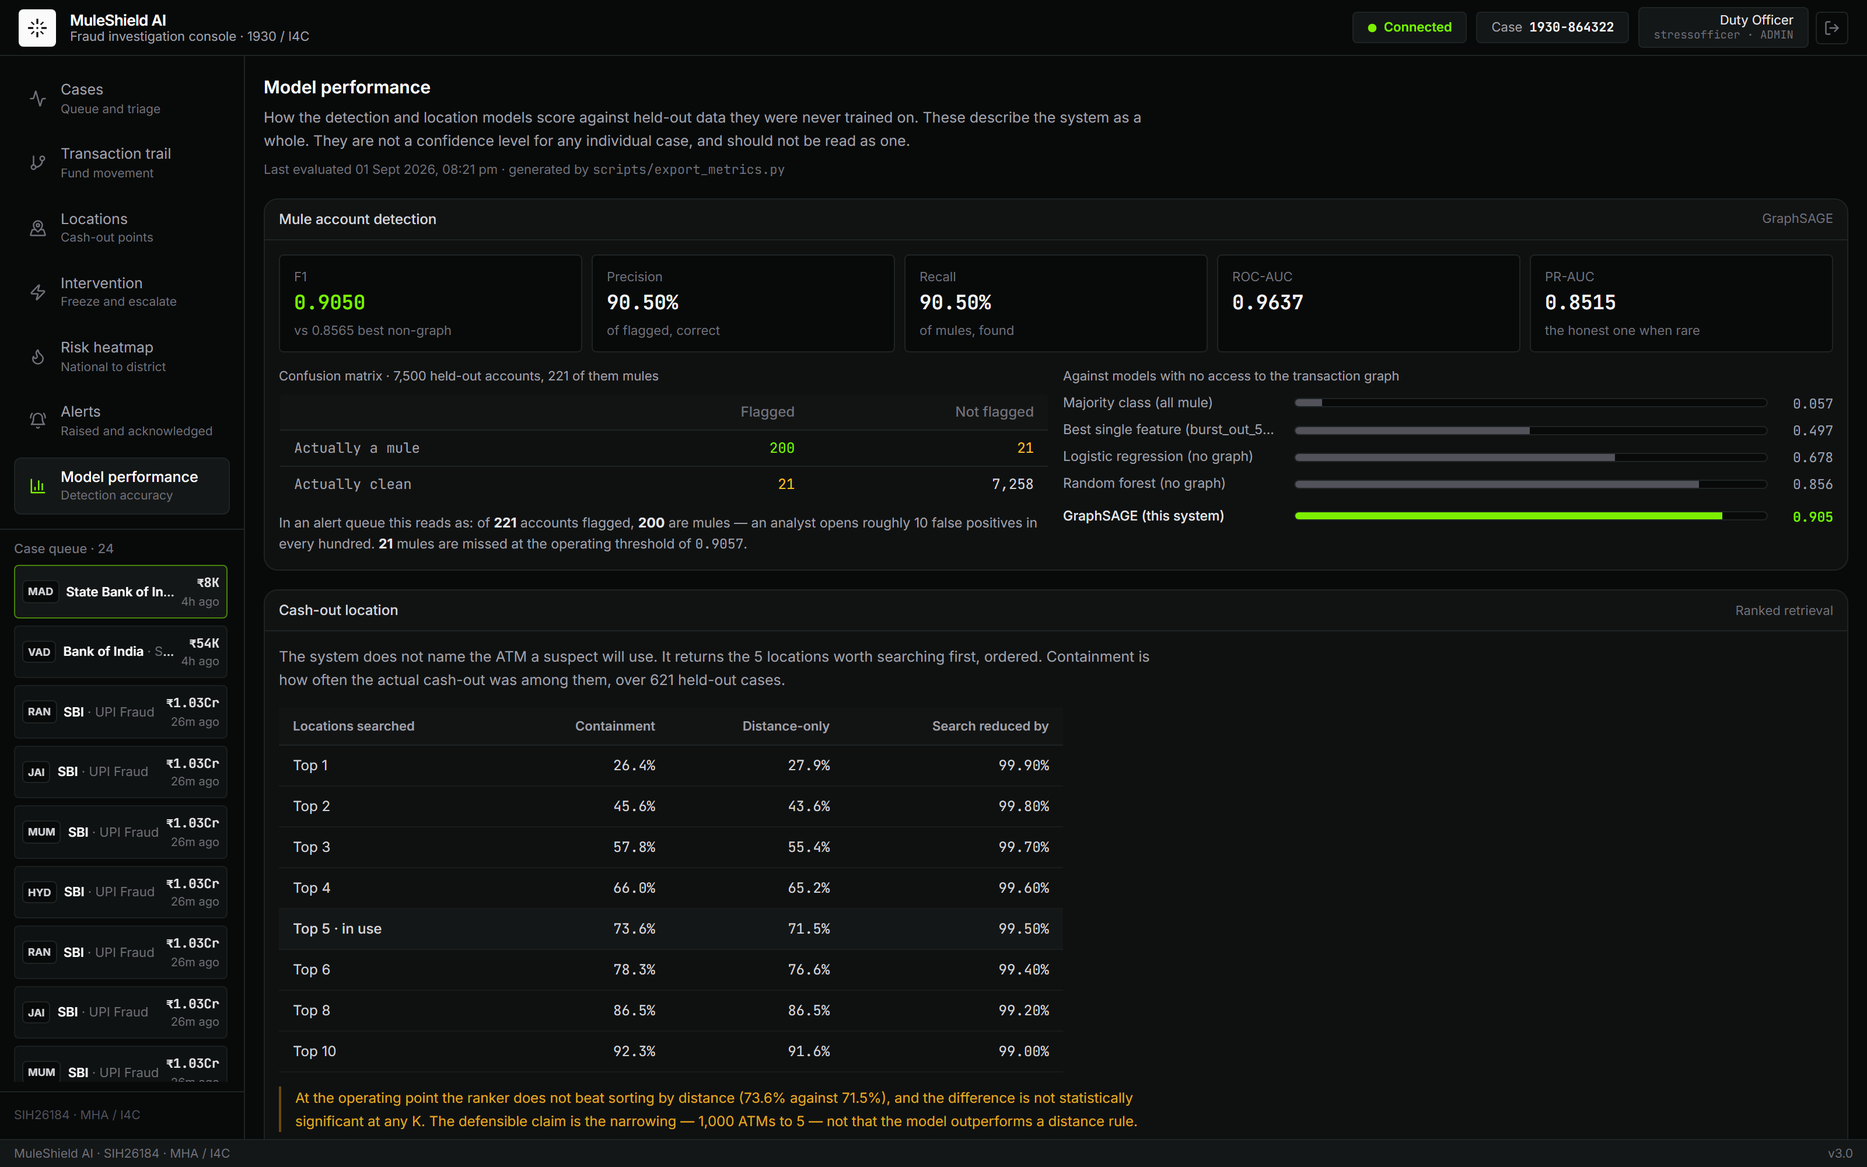
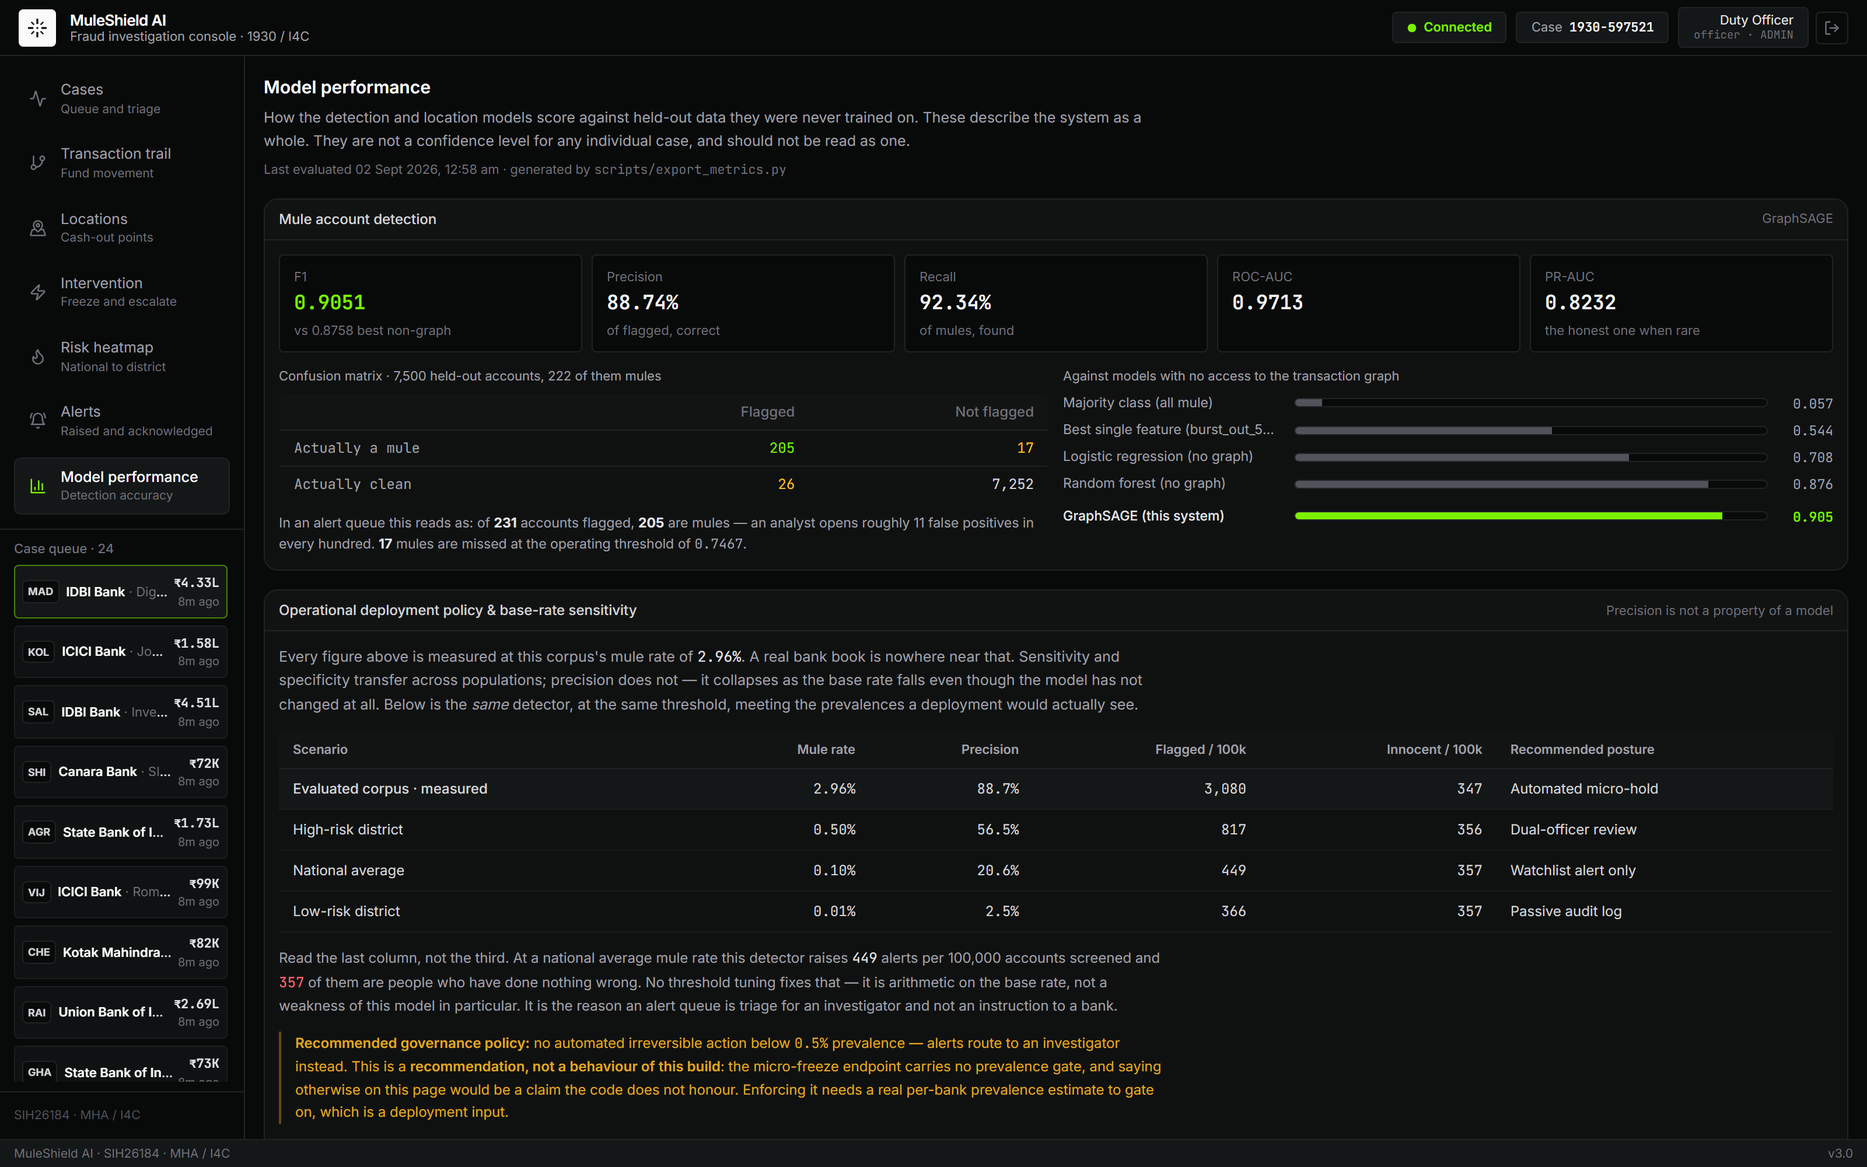
docs: re-capture all screens on the concentrated corpus, add dossier shot
The seven README screenshots were taken before the corpus was regenerated, so
their on-screen figures no longer matched the tables beside them. Re-captured
against a live backend seeded to the NCRP rate the problem statement names.

ALL TEN SCREENS NOW COME FROM ONE COMMAND
Screens 08 and 09 were hand-made once, because a modal is not a route and the
capture script only knew how to visit URLs. That is exactly why they went stale
silently while the other seven were regenerated. capture_screens.py now:

  - seeds one evidence artefact via the API, so the custody panel is not an
    empty table;
  - drives the interactions that open a panel or a modal (INTERACT), covering
    evidence, the s.63 certificate, and the new dossier;
  - matches its content check case-insensitively. inner_text() returns RENDERED
    text, so the dossier's `text-transform: uppercase` title came back shouting
    and a correctly-drawn modal was reported as a blank screen.

NEW: screen 10, the police intelligence dossier. It had no visual at all.

README FIGURES BROUGHT BACK IN LINE WITH THE LEDGER
Zone containment 87.0% -> 87.3%, Top-3 0.5781 -> 0.5621, countdown 11.66 ->
11.88 min, inference "under 5 ms" -> ~5 ms, and the case-queue caption's
"2,500 on the national feed" -> 3,167 (2,500 corpus + 667 replayed). Also fixed
a malformed utility-weights table that had carried a duplicated crew_prior row.

THE RANKER'S RECOVERED WEIGHTS MOVED, IN BOTH DIRECTIONS
[…]

diff --git a/scripts/capture_screens.py b/scripts/capture_screens.py
@@ -42,7 +42,11 @@ VIEWPORT = {"width": 1600, "height": 1000}
 TOKEN_KEY = "muleshield:token"        # services/auth.js
 # Leaflet tiles and React Flow layout settle well after networkidle.
 SETTLE_MS = {"triage": 5000, "map": 7000, "graph": 6000, "intercept": 4000,
-             "model": 3000, "risk": 7000, "alerts": 4000}
+             "model": 3000, "risk": 7000, "alerts": 4000,
+             # These three open a panel or a modal rather than a route. The
+             # dossier waits longest because producing one runs the full
+             # forecast and re-verifies the custody chain server-side.
+             "evidence": 4000, "certificate": 4000, "dossier": 4000}
 
 # Text that must appear before a screenshot is worth keeping. Without this the
 # script happily saved a 22 KB all-black PNG of the case queue -- the first
@@ -57,6 +61,35 @@ MUST_CONTAIN = {
     "model": "Model performance",
     "risk": "Tactical Risk Forecast",
     "alerts": "Alert Inbox",
+    "evidence": "Chain of custody",
+    "certificate": "Bharatiya Sakshya Adhiniyam",
+    "dossier": "Police Intelligence Dossier",
+}
+
+# Screens reached by an interaction rather than a URL. A modal is not a route,
+# and screenshots 08 and 09 were hand-made once because of that -- which meant
+# two images in the README were unreproducible and silently went stale when the
+# corpus was regenerated. Everything the README shows is now built by this file.
+def _open_certificate(page):
+    page.get_by_role("button", name="s.63 certificate").first.click()
+
+
+def _open_dossier(page):
+    # "Produce", not "Dossier": on the case screen the control sits in a panel
+    # header that already says Intelligence dossier, so the button is the verb.
+    # The case queue's button IS labelled "Dossier" -- same modal, different
+    # affordance.
+    page.get_by_role("button", name="Produce").first.click()
+
+
+def _scroll_to_evidence(page):
+    page.get_by_text("Chain of custody").first.scroll_into_view_if_needed()
+
+
+INTERACT = {
+    "evidence": _scroll_to_evidence,
+    "certificate": _open_certificate,
+    "dossier": _open_dossier,
 }
 
 
@@ -95,6 +128,27 @@ def pick_complaint(headers: dict) -> str:
     raise SystemExit("no complaint produced a 5-candidate prediction")
 
 
+def seed_evidence(headers: dict, cid: str) -> None:
+    """Put one artefact on the case so the custody chain is not an empty table.
+
+    Idempotent by content: the store rejects a duplicate digest, and a 409 here
+    means a previous run already seeded it, which is a success for our purposes.
+    """
+    files = {"file": ("victim-statement.pdf",
+                      b"%PDF-1.4 MuleShield capture fixture - not real evidence",
+                      "application/pdf")}
+    data = {"kind": "fir_copy",
+            "description": "Complainant statement recorded at the cyber cell",
+            "source": "Complainant"}
+    r = requests.post(f"{API}/api/v1/evidence/{cid}", files=files, data=data,
+                      headers=headers, timeout=60)
+    if r.status_code in (201, 409):
+        print(f"  evidence fixture: {'seeded' if r.status_code == 201 else 'already present'}")
+    else:
+        print(f"  evidence fixture: NOT seeded ({r.status_code}) - "
+              f"the custody panel will photograph empty")
+
+
 def main() -> None:
     from playwright.sync_api import sync_playwright
 
@@ -106,6 +160,7 @@ def main() -> None:
 
     headers = sign_in()
     cid = pick_complaint(headers)
+    seed_evidence(headers, cid)
     OUT.mkdir(parents=True, exist_ok=True)
 
     shots = [
@@ -116,6 +171,9 @@ def main() -> None:
         ("model", "/model", "05-model-performance"),
         ("risk", "/risk", "06-risk-heatmap"),
         ("alerts", "/alerts", "07-alert-inbox"),
+        ("evidence", f"/intercept?c={cid}", "08-evidence"),
+        ("certificate", f"/intercept?c={cid}", "09-evidence-certificate"),
+        ("dossier", f"/intercept?c={cid}", "10-case-dossier"),
     ]
 
     token = headers["Authorization"].split(" ", 1)[1]
@@ -133,9 +191,19 @@ def main() -> None:
             page.goto(APP + path, wait_until="networkidle", timeout=90_000)
             page.wait_for_timeout(SETTLE_MS[key])
 
-            needle = MUST_CONTAIN[key]
+            if key in INTERACT:
+                INTERACT[key](page)
+                # The content check below is what proves the interaction worked,
+                # so this only has to be long enough for a server round trip.
+                page.wait_for_timeout(SETTLE_MS[key])
+
+            # Case-insensitive: inner_text() returns RENDERED text, so a
+            # heading styled `text-transform: uppercase` comes back shouting.
+            # The dossier's title is one, and matching case-sensitively made a
+            # correctly-rendered modal look like a blank screen.
+            needle = MUST_CONTAIN[key].lower()
             for attempt in range(4):
-                if needle in page.inner_text("body"):
+                if needle in page.inner_text("body").lower():
                     break
                 page.wait_for_timeout(3000)
             else:

diff --git a/README.md b/README.md
@@ -25,24 +25,31 @@
 
 ## 🖥 Tactical Command Center Dashboard
 
-Seven screens, captured from a **live run** against the real backend — `scripts/capture_screens.py`
-drives a headless browser over the running console, so what is below is what the system renders,
-not a mockup. Every figure on screen is read from `data/metrics.json`, which only the training and
-evaluation scripts write.
+Ten screens, every one captured from a **live run** against the real backend —
+`scripts/capture_screens.py` drives a headless browser over the running console, signs in,
+opens the panels and modals that are not routes, and **refuses to save a screenshot of a
+screen that never rendered**. What is below is what the system draws, not a mockup. Every
+figure on screen is read from `data/metrics.json`, which only the training and evaluation
+scripts write.
 
-Screens 1–5 answer *this case*. Screens 6 and 7 answer *the country* — they are the framework
-layer the problem statement asks for and the layer `COMPLIANCE_AUDIT.md` found missing.
+Screens 1–5 answer *this case*. Screens 6 and 7 answer *the country* — the framework layer
+the problem statement asks for and the layer `COMPLIANCE_AUDIT.md` found missing. Screens
+8–10 are what leaves the building: custody, the certificate a court asks for, and the
+report an officer signs.
 
 <div align="center">
   <h3>1. Case Queue &amp; Triage</h3>
   <img src="docs/screens/01-case-queue.png" alt="MuleShield AI — case queue and triage" width="100%" />
-  <p><em>The working queue: 60 cases loaded of 2,500 on the national feed, with the amount at risk
-  across them. Severity is banded against the <strong>percentiles of the queue actually loaded</strong>,
-  not fixed rupee cuts — a flat ₹1.5L threshold marked 43% of this corpus CRITICAL and carried no
-  signal. Each case moves through a real status workflow (New → Under Review → Investigating →
-  Intervention Required → Resolved / Closed), can be assigned and annotated, and every action is
-  written to an audit trail. The right panel opens with a plain-language brief an officer can act on
-  without reading a model output.</em></p>
+  <p><em>The working queue: 60 cases loaded of <strong>3,167 on the national feed</strong> —
+  2,500 from the corpus plus 667 replayed through the real ingest API at the NCRP rate the
+  problem statement names, which is the load the forward surface was designed for. Every case
+  here is inside the golden hour and its countdown is <strong>live</strong>. Severity is banded
+  against the <strong>percentiles of the queue actually loaded</strong>, not fixed rupee cuts — a
+  flat ₹1.5L threshold marked 43% of this corpus CRITICAL and carried no signal. Each case moves
+  through a real status workflow (New → Under Review → Investigating → Intervention Required →
+  Resolved / Closed), can be assigned, annotated and <strong>turned into a signed dossier</strong>
+  (screen 10), and every action is written to an audit trail. The right panel opens with a
+  plain-language brief an officer can act on without reading a model output.</em></p>
 </div>
 
 <br/>
@@ -88,10 +95,14 @@ layer the problem statement asks for and the layer `COMPLIANCE_AUDIT.md` found m
   <img src="docs/screens/05-model-performance.png" alt="MuleShield AI — model performance" width="100%" />
   <p><em>The evaluation, in the product rather than only in a document. Mule detection scores
   <strong>F1 0.9051</strong> against 0.8758 for the best non-graph model, with the confusion matrix
-  over 7,500 held-out accounts read as an alert queue: of 231 flagged, 205 are mules. The Top-K
-  containment curve is shown in full, including the finding that works against us —
-  <strong>at K=1 the ranker still does not beat sorting by distance (0.2682 vs 0.2788)</strong>.
-  The defensible claim is the narrowing, 1,000 ATMs to 5.</em></p>
+  over 7,500 held-out accounts read as an alert queue: of 231 flagged, 205 are mules. Below it,
+  the screen does the thing an evaluation page usually will not — it shows
+  <strong>what the detector does at prevalences it has not been tested at</strong>. Precision
+  falls 88.7% → 2.5% as the mule rate falls 2.96% → 0.01%, while the number of innocent people in
+  the queue barely moves (347 → 357 per 100k). The recommended posture per band is printed beside
+  it and <strong>explicitly labelled as a recommendation the code does not enforce</strong>. The
+  Top-K curve is shown in full including the finding that works against us —
+  <strong>at K=1 the ranker still does not beat sorting by distance (0.2682 vs 0.2788)</strong>.</em></p>
 </div>
 
 <br/>
@@ -100,7 +111,10 @@ layer the problem statement asks for and the layer `COMPLIANCE_AUDIT.md` found m
   <h3>6. Risk Heatmap — national → state → district</h3>
   <img src="docs/screens/06-risk-heatmap.png" alt="MuleShield AI — forward risk heatmap" width="100%" />
   <p><em>The forward cash-out intensity surface: <strong>where stolen money is about to surface in
-  the next 30 / 60 / 120 minutes</strong>, aggregated over every complaint open right now. Drill-down
+  the next 30 / 60 / 120 minutes</strong>, aggregated over all 667 complaints open right now. The
+  shape on the map is the point: mule recruitment concentrates, so the surface concentrates with
+  it — <strong>Alwar, Bharatpur and the Mewat belt burn brightest</strong> while complaints
+  themselves still arrive from all 79 cities. Drill-down
   is national → state → district, with time-window and crime-category filters. This is
   <strong>not</strong> a density map of past cash-outs — history enters as one term capped at
   <strong>15%</strong> of the surface's conditional mass, and every cell reports its own
@@ -156,6 +170,25 @@ layer the problem statement asks for and the layer `COMPLIANCE_AUDIT.md` found m
   none. Printable from the console; it must be adopted and signed by the named custodian.</em></p>
 </div>
 
+<br/>
+
+<div align="center">
+  <h3>10. Police intelligence dossier</h3>
+  <img src="docs/screens/10-case-dossier.png" alt="MuleShield AI — police intelligence dossier" width="100%" />
+  <p><em>The middle clause of deliverable (c) &mdash; <em>&ldquo;intelligence reports&rdquo;</em> &mdash;
+  and the one that had nothing behind it until last. One click produces a printable case report:
+  the complaint as filed, <strong>every hop of the money trail with its own IFSC</strong> (from the
+  ledger, not the de-duplicated graph view, because a bank nodal officer acts on the hops), what
+  the graph engine flagged and under which thresholds, the forecast search zone with its ranked
+  candidates, the actions taken, and the custody chain with its s.63 statements nested whole.
+  <strong>Assembled server-side at the moment it is asked for</strong>, so it cannot describe a
+  state the system is not in &mdash; and it calls the same
+  <code>backend/forecast.py</code> the Interception screen does, so a printed dossier and the
+  console can never name a different ATM. Production is audit-logged, and the document carries the
+  same caveat that goes out on the wire: <em>&ldquo;a ranked forecast, not a confirmed
+  location&rdquo;</em>. Black on white, printed by the browser &mdash; no PDF dependency.</em></p>
+</div>
+
 > **Regenerate:** `cd frontend && npm run build`, start the backend, seed the live
 > window (step 5 below — `/risk` and `/alerts` photograph as empty without it), then
 > `MULESHIELD_ADMIN_PASSWORD=... python scripts/capture_screens.py`. Capture runs against
@@ -163,8 +196,11 @@ layer the problem statement asks for and the layer `COMPLIANCE_AUDIT.md` found m
 > on relative paths, so `npm run preview` alone would answer those calls with `index.html`.
 > The script signs in (it predated authentication and could not, so it quietly photographed
 > the login form), resolves a complaint from the live queue rather than pinning a ticket id,
-> and refuses to save a screenshot of a screen that never rendered. `MULESHIELD_CAPTURE_API`
-> points it at a different port.
+> seeds one evidence artefact so the custody panel is not an empty table, opens the panels and
+> modals that are not routes, and refuses to save a screenshot of a screen that never rendered.
+> Screens 8 and 9 were hand-made once, which is how two README images silently went stale when
+> the corpus was regenerated; **all ten are now produced by this one command.**
+> `MULESHIELD_CAPTURE_API` points it at a different port.
 
 ---
 
@@ -176,7 +212,7 @@ Cyber fraud incidents reported on the National Cybercrime Reporting Portal (**19
 1. **Trace multi-hop fund dispersal** in real time from victim complaint origins in $<185\text{ ms}$.
 2. **Detect fraud rings, fund-splitting, and velocity anomalies** using graph topology.
 3. **Generate 64-dimensional structural risk embeddings** via **GraphSAGE** (capturing complex neighborhood relationships).
-4. **Narrow 1,000 ATMs to a search zone containing the withdrawal 87.0% of the time** (a median of 7 machines), with a **countdown and prediction band**, in **under 5 ms** end-to-end.
+4. **Narrow 1,000 ATMs to a search zone containing the withdrawal 87.3% of the time** (a median of 7 machines), with a **countdown and prediction band**, in **~5 ms** end-to-end.
 
 ```
 [ 1930 Victim Complaint ]
@@ -192,7 +228,7 @@ Cyber fraud incidents reported on the National Cybercrime Reporting Portal (**19
            │
            ▼
 [ XGBoost Classifier & Regressor v2 ]
-  ├── 📍 Search Zone (87.0% containment; 1,000 ATMs -> a median of 7)
+  ├── 📍 Search Zone (87.3% containment; 1,000 ATMs -> a median of 7)
   ├── 📍 Top-5 ATM Ranking (Conditional Logit over 25 reachable candidates)
   ├── ⏱ Time-to-Cashout Countdown (MAE: 11.7 min, R² 0.18, q05-q95 band)
   └── 🔒 Real-time Micro-Freeze Action Recommendation (<25ms latency)
@@ -223,16 +259,16 @@ Cyber fraud incidents reported on the National Cybercrime Reporting Portal (**19
   - `bearing_to_atm_1_deg` — Compass bearing to nearest ATM (0°–360°).
   - `is_nearest_same_bank`, `nearest_same_bank_atm_dist` — Bank affiliation preference features.
 - **Models:**
-  - **`ConditionalLogitRanker`**: ranks the 25 reachable ATMs per cashout — **Top-3 0.5781** vs a 0.5539 distance-only baseline, and aggregated into a **search zone with 87.0% containment** vs 75.5% for a nearest-3 centroid. Where a cashout happens is a *discrete choice among alternatives*, and the drivers compose multiplicatively, so in log space the choice is linear — which is exactly a conditional logit. A 953-way softmax over the national ATM directory saw ~5 examples per class and scored *below* a nearest-ATM rule; a gradient-boosted ranker had to approximate products with axis-aligned steps and also lost.
+  - **`ConditionalLogitRanker`**: ranks the 25 reachable ATMs per cashout — **Top-3 0.5621** vs a 0.5364 distance-only baseline, and aggregated into a **search zone with 87.3% containment** vs 77.7% for a nearest-3 centroid (paired exact McNemar p = 3.5e-14; see §4c). Where a cashout happens is a *discrete choice among alternatives*, and the drivers compose multiplicatively, so in log space the choice is linear — which is exactly a conditional logit. A 953-way softmax over the national ATM directory saw ~5 examples per class and scored *below* a nearest-ATM rule; a gradient-boosted ranker had to approximate products with axis-aligned steps and also lost.
   - **`XGBRegressor`**: Estimates countdown minutes — **11.88 min MAE** ($R^2 = 0.12$) against a 14.58 min mean-prediction baseline, with a q05-q95 band at 78.5% coverage. The observable-conditioned ceiling is ~9.4 min / $R^2$ ~0.45 — the cashout regime is not fully knowable.
 - **Interpretable utility weights** (recovered from data, checkable against the generator):
 
   | Term | Learned | True |
   |---|---|---|
-  | `-distance/5` | +0.99 | 1.00 |
-  | `log(1 + 2·risk)` | +0.79 | 1.00 |
+  | `-distance/5` | +1.03 | 1.00 |
+  | `log(1 + 2·risk)` | +1.05 | 1.00 |
   | `same_bank` | +0.60 | log 2 = 0.69 |
-  | `crew_prior` | +0.29 | — |
+  | `crew_prior` | +0.16 | — |
 
 ---
 
@@ -333,11 +369,22 @@ against expectation:
 
 | Utility term | Learned | Generative truth |
 |---|---|---|
-| `−distance / 5` | +0.99 | 1.00 |
-| `log(1 + 2·risk)` | +0.79 | 1.00 |
+| `−distance / 5` | +1.03 | 1.00 |
+| `log(1 + 2·risk)` | +1.05 | 1.00 |
 | `same_bank` | +0.60 | log 2 = 0.69 |
-  | `crew_prior` | +0.29 | — |
-| `crew_prior` | +0.29 | — |
+| `crew_prior` | +0.16 | — |
+
+Two of these got **closer** to truth when the corpus was concentrated — the
+surveillance-risk term moved +0.79 → +1.05 and distance +0.99 → +1.03 — because a
+concentrated population gives each term more to separate. One got **worse**:
+`crew_prior` fell +0.29 → +0.16, and the global ATM prior is now slightly negative
+(−0.17). That is a real weakness and its cause is known and written down:
+`scripts/generate_data.py` assigns syndicate membership independently of geography,
+so a crew's members scatter across the country and their "established cash-out
+points" are computed around a centroid near the middle of India. The crew signal the
+architecture is built to exploit is therefore diluted at source. Fixing it would move
+the generative process — and with it the Bayes bound the Top-K band is derived from —
+so it is deliberately left as a documented defect rather than folded into this pass.
 
 ### 4. Mule detection — supporting machinery
 
@@ -784,7 +831,7 @@ a stale complaint id.
   - Real-time sub-graph embedding extractor (<0.39s).
 - [x] **Phase 2b: XGBoost ATM Prediction Engine v2** *(53/53 Tests Passing)*
   - 80-dim hybrid vector for the GNN stage; 19-dim context+candidate vector for the ATM ranker.
-  - Search zone (87.0% containment), Top-3 ATM ranking (0.5781), countdown (11.66 min MAE).
+  - Search zone (87.3% containment), Top-3 ATM ranking (0.5621), countdown (11.88 min MAE).
   - Single inference latency: 25.8 ms.
 - [x] **Phase 3: Real-Time FastAPI Backend** *(51/51 Tests Passing)*
   - REST endpoints for complaint ingestion, graph exploration, GNN embeddings, and ATM predictions.
